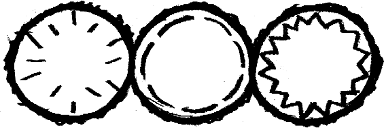
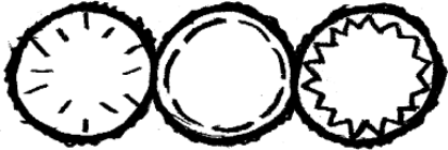
chamge hud size

Changed region(s): [[0.0, 0.0, 1.0, 1.0], [0.125, 0.6562, 0.1875, 0.7812]]

diff --git a/MobileWars/src/com/nravo/thegame/mobilewars/gamelevel/Levels.java b/MobileWars/src/com/nravo/thegame/mobilewars/gamelevel/Levels.java
@@ -19,12 +19,10 @@ public class Levels {
                 new BuildingDefinition(0.87f*CAMERA_WIDTH, 0.81f*CAMERA_HEIGHT, 15, Race.APPLE_IOS, BuildingDefinition.BuildingType.TOWER),
                 new BuildingDefinition(0.14f*CAMERA_WIDTH, 0.81f*CAMERA_HEIGHT, 10, Race.NEUTRAL, BuildingDefinition.BuildingType.TOWER),
                 new BuildingDefinition(0.29f*CAMERA_WIDTH, 0.63f*CAMERA_HEIGHT, 10, Race.NEUTRAL, BuildingDefinition.BuildingType.TOWER),
-
-                new BuildingDefinition(0.30f*CAMERA_WIDTH, 0.24f*CAMERA_HEIGHT, 10, Race.NEUTRAL, BuildingDefinition.BuildingType.TOWER),
+                new BuildingDefinition(0.27f*CAMERA_WIDTH, 0.24f*CAMERA_HEIGHT, 10, Race.NEUTRAL, BuildingDefinition.BuildingType.TOWER),
                 new BuildingDefinition(0.55f*CAMERA_WIDTH, 0.80f*CAMERA_HEIGHT, 10, Race.NEUTRAL, BuildingDefinition.BuildingType.TOWER),
                 new BuildingDefinition(0.54f*CAMERA_WIDTH, 0.40f*CAMERA_HEIGHT, 10, Race.NEUTRAL, BuildingDefinition.BuildingType.TOWER),
                 new BuildingDefinition(0.70f*CAMERA_WIDTH, 0.57f*CAMERA_HEIGHT, 10, Race.NEUTRAL, BuildingDefinition.BuildingType.TOWER),
-
                 new BuildingDefinition(0.80f*CAMERA_WIDTH, 0.25f*CAMERA_HEIGHT, 10, Race.NEUTRAL, BuildingDefinition.BuildingType.TOWER),
                 new BuildingDefinition(0.94f*CAMERA_WIDTH, 0.44f*CAMERA_HEIGHT, 15, Race.APPLE_IOS, BuildingDefinition.BuildingType.TOWER),
             }),

diff --git a/MobileWars/src/com/nravo/thegame/mobilewars/gamelevel/GameHUD.java b/MobileWars/src/com/nravo/thegame/mobilewars/gamelevel/GameHUD.java
@@ -28,7 +28,7 @@ public class GameHUD extends HUD {
         backround.setAnchorCenter(0, 0);
         attachChild(backround);
         
-        mHoneycomb = new Sprite(0, 0, ResourceManager.sPowerHoneycombTR,
+        mHoneycomb = new Sprite(23, 10, ResourceManager.sPowerHoneycombTR,
         		ResourceManager.getEngine().getVertexBufferObjectManager()) {
         	@Override
         	public boolean onAreaTouched(TouchEvent pSceneTouchEvent,
@@ -43,7 +43,7 @@ public class GameHUD extends HUD {
         mHoneycomb.setAnchorCenter(0, 0);
         attachChild(mHoneycomb);
         
-        mIceCreamSandwich = new Sprite(128, 0,
+        mIceCreamSandwich = new Sprite(153, 10,
         		ResourceManager.sPowerIceCreamSandwichTR,
         		ResourceManager.getEngine().getVertexBufferObjectManager()) {
         	@Override
@@ -59,7 +59,7 @@ public class GameHUD extends HUD {
         mIceCreamSandwich.setAnchorCenter(0, 0);
         attachChild(mIceCreamSandwich);
         
-        mJellyBeans = new Sprite(256, 0, ResourceManager.sPowerJellyBeansTR,
+        mJellyBeans = new Sprite(307, 10, ResourceManager.sPowerJellyBeansTR,
         		ResourceManager.getEngine().getVertexBufferObjectManager()) {
         	@Override
         	public boolean onAreaTouched(TouchEvent pSceneTouchEvent,
